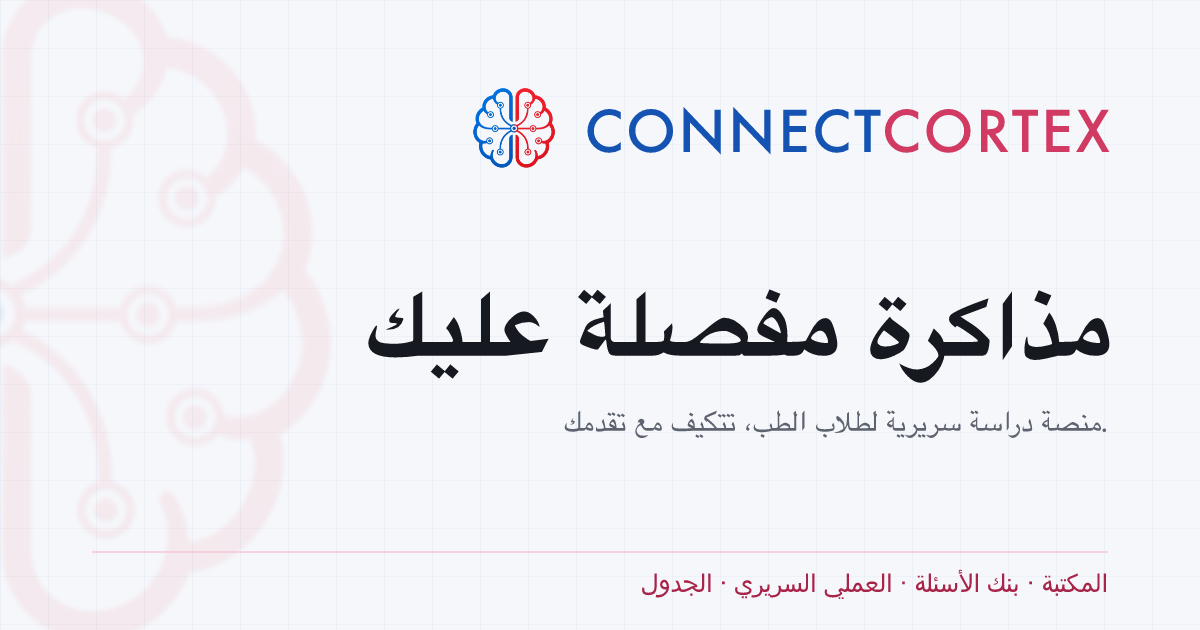
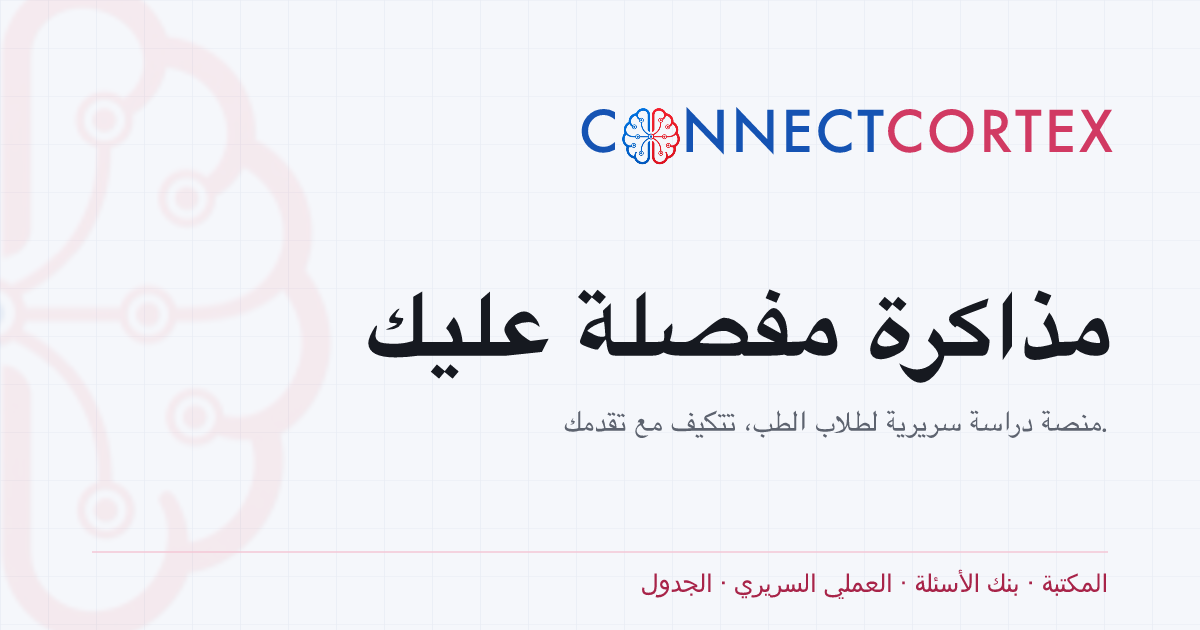
Show the same mark in a browser tab and a link preview
/en and /ar were still serving the old Synapse favicon — the terracotta
mark from before the rebrand — because only the root index.html was
carried over. Both now point at favicon.png, and the old artwork is
deleted rather than left servable.

The link-preview cards claimed the mark was the O in CONNECT and then set
it beside the word instead. It is the O now. SVG has no inline flow and
resvg exposes no advance widths, so render.mjs measures them: appending a
C to a run grows that run's ink by exactly the run's advance plus one
tracking step, because the C's own bearings appear in both measurements
and cancel. The lockup therefore stays correct on a machine that resolves
the font stack differently, which every machine does — Jost is a webfont
and resvg reads only installed faces, so it lands on Futura.

Changed region(s): [[0.37, 0.1206, 0.925, 0.2714]]

diff --git a/ar/index.html b/ar/index.html
@@ -2,7 +2,7 @@
 <html lang="ar" dir="rtl">
   <head>
     <meta charset="UTF-8" />
-    <link rel="icon" type="image/svg+xml" href="/favicon.svg" />
+    <link rel="icon" type="image/png" href="/favicon.png" />
     <meta name="viewport" content="width=device-width, initial-scale=1.0, viewport-fit=cover" />
     <meta name="theme-color" content="#f6f1e9" />
     <!-- Theme before first paint. Without this the page paints in the default

diff --git a/en/index.html b/en/index.html
@@ -2,7 +2,7 @@
 <html lang="en" dir="ltr">
   <head>
     <meta charset="UTF-8" />
-    <link rel="icon" type="image/svg+xml" href="/favicon.svg" />
+    <link rel="icon" type="image/png" href="/favicon.png" />
     <meta name="viewport" content="width=device-width, initial-scale=1.0, viewport-fit=cover" />
     <meta name="theme-color" content="#f6f1e9" />
     <!-- Theme before first paint. Without this the page paints in the default

diff --git a/DESIGN.md b/DESIGN.md
@@ -92,6 +92,21 @@ swapped in under the dark theme — the light artwork's deep blue goes muddy on
 `#0d1117`. The logotype itself needs no swap: it reads `--brand-blue` /
 `--brand-rose`, which the dark theme moves up the ramp.
 
+**Outside the app** there is no browser to flow the mark into the text run, so
+three surfaces compose the lockup by hand. They hold the same proportions as
+`Wordmark.tsx` — mark at 1.06em with 0.015em either side, seated 0.25em below
+the baseline, tracking 0.045em — and drift from it is a bug.
+
+- **Link-preview cards** (`scripts/og/`) place each piece at a measured x. SVG
+  has no inline flow and resvg exposes no advance widths, so `render.mjs`
+  measures them instead: appending a `C` to a run grows that run's ink by
+  exactly the run's advance plus one tracking step, because the C's own bearings
+  appear in both measurements and cancel. That keeps the lockup correct even
+  though the face is not Jost — Jost is a webfont and resvg reads only installed
+  ones, so it lands on Futura, the geometric sans Jost is a revival of.
+- **Favicon** is `favicon.png`, the mark on a tinted rounded square. All three
+  entry documents point at it: `index.html`, `en/`, and `ar/`.
+
 ## Radius / Elevation / Motion
 
 - Radius: 6 / 8 / 10 / 12 / 16px — restrained, never pill-rounded cards.
